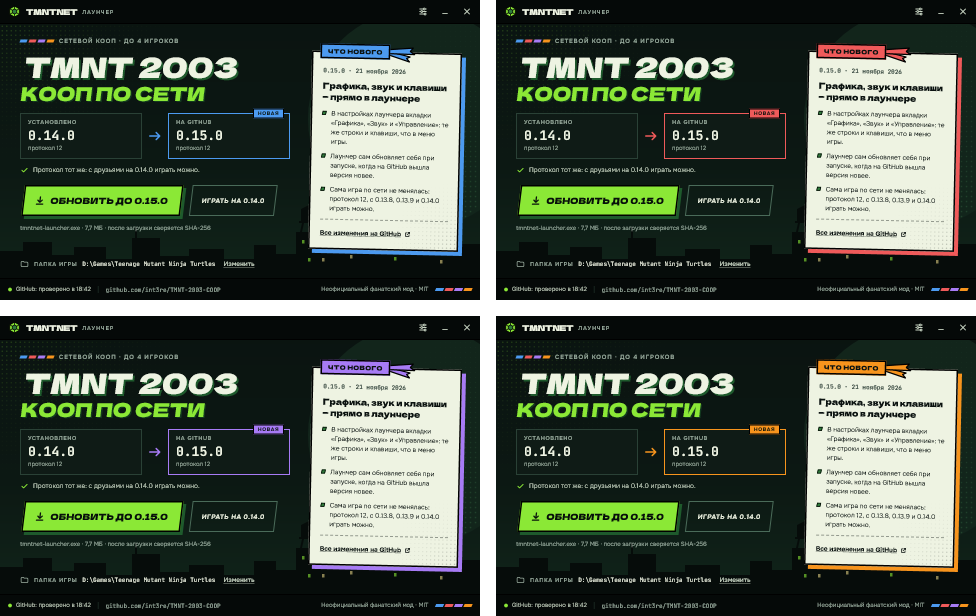
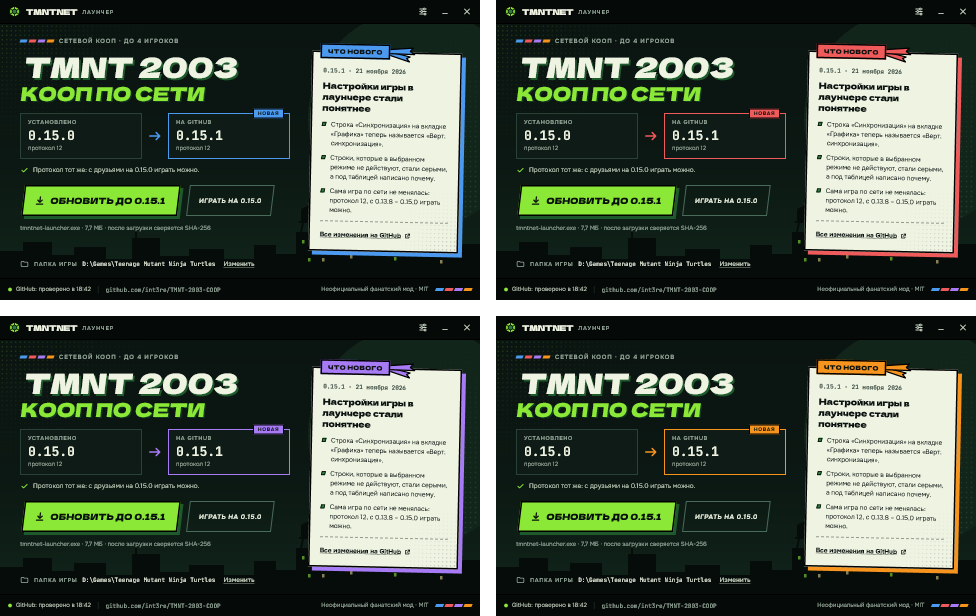
tmntnet 0.15.1: the launcher's pages of the game's settings, clearer and re-checked
- The vsync row of ГРАФИКА is named in full: «Верт. синхронизация».
- Rows that do nothing as the other rows are stand pale, with a line under
  the table saying why (gset::applies): without the wide screen the mod
  leaves the picture to the game (4:3, the resolution of the game's own
  menu), so [video] resolution and the side bars change nothing; in the
  exclusive full screen the game cannot go on in the background. Found by
  running the real game with the launcher's settings: 640x480 asked, an
  800x600 window with the wide screen off.
- /check "<game folder>" (lab): every value of every row is written and
  read back through the mod's own reader, every action of both players takes
  a key and gets its own back, a swap between the players, the layouts; the
  folder's files end as they began. Lab scenarios 24 (rows that do nothing)
  and 25 (the check): 25 scenarios, ALL OK.

No change to the mod itself: protocol 12, plays with 0.13.8 - 0.15.0.

diff --git a/src/launcher/launcher.cpp b/src/launcher/launcher.cpp
@@ -30,6 +30,8 @@
 //   /log <file>                 what happened, line by line
 //   /fonts                      the fonts found, into the log
 //   /feed <file> <tag>          reads a saved releases.atom, the release into the log
+//   /check <game folder>        every value of every row of the game's settings is written and read
+//                               back, every key is given and taken back; the result into the log
 #include <windows.h>
 
 #include <commctrl.h>
@@ -306,7 +308,7 @@ void fill_page(view::View& v, bool game) {
     view::Row row;
     row.number = r;
     row.label = gset::label(r);
-    row.usable = game && !m.game_busy && gset::usable(r);
+    row.usable = game && !m.game_busy && gset::usable(r) && gset::applies(r);
     const int now = gset::value(r);
     switch (gset::kind(r)) {
       case gset::Kind::Choice:
@@ -358,6 +360,12 @@ void fill_page(view::View& v, bool game) {
     v.page_note = sound ? L"Громкость — та же, что в игре: ПАРАМЕТРЫ → ОПЦИИ ЗВУКА. Действует со следующего запуска игры."
                         : L"Настройки мода из tmntnet.ini — те же строки, что в игре: ПАРАМЕТРЫ → ПАРАМЕТРЫ ГРАФИКИ. "
                           L"Действуют со следующего запуска игры.";
+    // Rows that do nothing with the other rows as they are: why they are pale.
+    if (!sound && !gset::applies(gset::kResolution))
+      v.page_note = L"Широкий формат выключен: картинка 4:3, как в оригинале. Разрешение тогда выбирается в меню игры, "
+                    L"а «По бокам от 4:3» не нужно.";
+    else if (!sound && !gset::applies(gset::kBackground))
+      v.page_note = L"В полном экране игра не может идти в фоне: эта строка действует в режимах «Без рамки» и «В окне».";
   }
 }
 
@@ -960,7 +968,7 @@ void open_tab(int tab) {
 void change_row(int number, int part) {
   if (number < 0 || number >= gset::kRows || !m.settings_open || (m.tab != 1 && m.tab != 2) || m.game_busy) return;
   const gset::Row r = (gset::Row)number;
-  if ((r >= gset::kFirstSound) != (m.tab == 2) || !gset::usable(r)) return;
+  if ((r >= gset::kFirstSound) != (m.tab == 2) || !gset::usable(r) || !gset::applies(r)) return;
   const int now = gset::value(r);
   int next = now;
   switch (gset::kind(r)) {
@@ -1685,6 +1693,82 @@ void CALLBACK lab_tick(HWND, UINT, UINT_PTR, DWORD) {
   }
 }
 
+// Lab: the pages of the game's settings against a game folder, with no window.
+// Every value of every row is written and read back (tmntnet.ini through the
+// mod's own reader), every action of both players takes a key and gets its own
+// back, two actions swap their keys, the ready layouts come and go. Each row
+// ends on the value it began with: the folder's files are left as they were.
+int check_settings(const std::wstring& dir) {
+  gset::load(dir);
+  int bad = 0, good = 0;
+  auto fail = [&](const std::wstring& what) {
+    ++bad;
+    lab(L"check: FAIL " + what);
+  };
+  for (int r = 0; r < gset::kRows; ++r) {
+    const gset::Row row = (gset::Row)r;
+    const std::wstring key = update::widen(gset::key(row));
+    if (!gset::usable(row)) {
+      fail(key + L": its file is not in the folder");
+      continue;
+    }
+    const int first = gset::value(row), n = gset::count(row);
+    std::wstring names;
+    for (int i = 1; i <= n; ++i) {  // every value, the first one last
+      const int v = (first + i) % n;
+      const std::wstring name = gset::name(row, v);
+      names += (names.empty() ? L"" : L", ") + name;
+      if (!gset::set(row, v)) {
+        fail(key + L" = " + name + L": " + gset::error());
+        continue;
+      }
+      gset::load(dir);
+      if (gset::value(row) != v) fail(key + L" = " + name + L" reads back as " + gset::name(row, gset::value(row)));
+      else ++good;
+    }
+    lab(L"check: " + key + L", " + std::to_wstring(n) + L" values: " + names);
+  }
+  if (!gset::has_keys()) {
+    fail(L"keys: savesetting.dat is not in the folder");
+  } else {
+    const int spare = 0x44;  // F10
+    for (int p = 0; p < 2; ++p)
+      for (int a = 0; a < gset::kKeyActions; ++a) {
+        const std::wstring who = L"player " + std::to_wstring(p + 1) + L" " + update::widen(gset::action_key(a));
+        const int own = gset::key_code(p, a);
+        if (!gset::set_key(p, a, spare)) fail(who + L" = F10: " + gset::error());
+        gset::load(dir);
+        if (gset::key_code(p, a) != spare) fail(who + L" = F10 reads back as " + gset::key_name(gset::key_code(p, a)));
+        if (!gset::set_key(p, a, own)) fail(who + L" back: " + gset::error());
+        gset::load(dir);
+        if (gset::key_code(p, a) != own) fail(who + L" does not get " + gset::key_name(own) + L" back");
+        else ++good;
+      }
+    // A key the other player has: the two actions change keys, and back.
+    const int mine = gset::key_code(0, 4), theirs = gset::key_code(1, 4);
+    gset::set_key(0, 4, theirs);
+    gset::load(dir);
+    if (gset::key_code(0, 4) != theirs || gset::key_code(1, 4) != mine) fail(L"the swap between the players");
+    gset::set_key(0, 4, mine);
+    gset::load(dir);
+    if (gset::key_code(0, 4) != mine || gset::key_code(1, 4) != theirs) fail(L"the swap back");
+    else ++good;
+    lab(L"check: keys, " + std::to_wstring(2 * gset::kKeyActions) + L" actions and a swap");
+    if (gset::layout() == 0) {  // (with keys of one's own the layouts would leave them in tmntnet.ini)
+      gset::set_layout(1);
+      gset::load(dir);
+      if (gset::layout() != 1) fail(L"the layout of two players");
+      gset::set_layout(0);
+      gset::load(dir);
+      if (gset::layout() != 0) fail(L"the game's own layout");
+      else ++good;
+      lab(L"check: layouts");
+    }
+  }
+  lab(L"check: done, " + std::to_wstring(good) + L" right, " + std::to_wstring(bad) + L" wrong");
+  return bad;
+}
+
 }  // namespace
 
 int WINAPI wWinMain(HINSTANCE, HINSTANCE, PWSTR, int) {
@@ -1693,7 +1777,7 @@ int WINAPI wWinMain(HINSTANCE, HINSTANCE, PWSTR, int) {
   SetErrorMode(SEM_FAILCRITICALERRORS | SEM_NOGPFAULTERRORBOX);
   int argc = 0;
   wchar_t** argv = CommandLineToArgvW(GetCommandLineW(), &argc);
-  std::wstring shot, state = L"update", was, feed, feed_tag;
+  std::wstring shot, state = L"update", was, feed, feed_tag, check_dir;
   float scale = 1.0f;
   int accent = -1;
   DWORD snap_after = 0;
@@ -1712,6 +1796,7 @@ int WINAPI wWinMain(HINSTANCE, HINSTANCE, PWSTR, int) {
     else if (a == L"/snap" && more) g_snap_file = argv[++i];
     else if (a == L"/after" && more) snap_after = (DWORD)_wtoi(argv[++i]);
     else if (a == L"/fonts") fonts = true;
+    else if (a == L"/check" && more) check_dir = argv[++i];
     else if (a == L"/apply") apply = true;
     else if (a == L"/updated") m.just_updated = m.self_tried = true;  // (and no second update in a row)
     else if (a == L"/at" && more) {
@@ -1741,6 +1826,11 @@ int WINAPI wWinMain(HINSTANCE, HINSTANCE, PWSTR, int) {
     lab(gfx::fonts_report());
     gfx::shutdown();
     return 0;
+  }
+  if (!check_dir.empty()) {
+    const int bad = check_settings(check_dir);
+    gfx::shutdown();
+    return bad ? 1 : 0;
   }
   if (!feed.empty()) {
     FILE* f = _wfopen(feed.c_str(), L"rb");

diff --git a/src/launcher/game_settings.cpp b/src/launcher/game_settings.cpp
@@ -74,7 +74,7 @@ const Info kInfo[kRows] = {
     {L"Панели игроков", "hud", Kind::Choice, true},
     {L"Качество", "quality", Kind::Choice, true},
     {L"Лимит кадров", "fps", Kind::Choice, true},
-    {L"Синхронизация", "vsync", Kind::Choice, true},
+    {L"Верт. синхронизация", "vsync", Kind::Choice, true},
     {L"Музыка", "music", Kind::Level, false},
     {L"Звуки", "effects", Kind::Level, false},
     {L"Голоса", "voices", Kind::Level, false},
@@ -376,6 +376,12 @@ Kind kind(Row r) { return kInfo[r].kind; }
 const wchar_t* label(Row r) { return kInfo[r].label; }
 const char* key(Row r) { return kInfo[r].key; }
 bool usable(Row r) { return kInfo[r].in_ini ? g.mod : g.levels; }
+
+bool applies(Row r) {
+  if (r == kResolution || r == kSides) return g.cfg.widescreen;  // (src/mod/widescreen.cpp, install)
+  if (r == kBackground) return g.cfg.display != "fullscreen";    // (src/mod/display.cpp, install)
+  return true;
+}
 
 int count(Row r) {
   switch (r) {

diff --git a/src/launcher/game_settings.h b/src/launcher/game_settings.h
@@ -32,6 +32,11 @@ Kind kind(Row r);
 const wchar_t* label(Row r);
 const char* key(Row r);            // its name for the lab: display, music, ...
 bool usable(Row r);                // its file is there
+// The row does something with the other rows as they are. Without the wide
+// screen the mod leaves the picture to the game (4:3, the resolution of the
+// game's own menu): РАЗРЕШЕНИЕ and ПО БОКАМ do nothing; in the exclusive full
+// screen the game cannot go on in the background.
+bool applies(Row r);
 int count(Row r);                  // how many values it has now
 int value(Row r);                  // the one set
 std::wstring name(Row r, int v);   // a value's words

diff --git a/src/common/version.h b/src/common/version.h
@@ -1,2 +1,2 @@
 #pragma once
-#define TMNTNET_VERSION "0.15.0"
+#define TMNTNET_VERSION "0.15.1"

diff --git a/docs/LAUNCHER.md b/docs/LAUNCHER.md
@@ -122,7 +122,7 @@ Turtles (2003).
 | **Панели игроков** | как в игре, 90 … 50 % | `[video] hud_size` |
 | **Качество** | как в игре, высокое (сглаживание 4x, текстуры 16x), максимум (8x) | `[video] antialiasing`, `anisotropy` |
 | **Лимит кадров** | нет, 30, 60, 120, 144 | `[video] fps_limit` |
-| **Синхронизация** | вертикальная синхронизация: как в игре, включена, выключена | `[video] vsync` |
+| **Верт. синхронизация** | вертикальная синхронизация (кадр показывается в такт обновлению монитора: без «разрывов» картинки): как в игре, включена, выключена | `[video] vsync` |
 | **Музыка, Звуки, Голоса** | пять ступеней, как ползунки игры | `savesetting.dat` игры |
 | **Ролики** | как музыка или своя громкость, 1 … 5 | `tmntnet.ini`, `[audio] movie_level` |
 | **Режим аудио** | стерео / моно | `savesetting.dat` игры |
@@ -131,7 +131,16 @@ Turtles (2003).
 Кнопка **По умолчанию** возвращает строки открытой вкладки к настройкам мода и игры «из
 коробки»; вторую вкладку она не трогает.
 
-Когда строки серые и не нажимаются, под ними написано почему:
+Некоторые строки действуют не всегда — так устроен мод, и в меню игры так же. Лаунчер делает
+такую строку серой и пишет под таблицей почему:
+
+- **Широкий формат выключен** — картинка остаётся 4:3, как в оригинале: разрешение тогда
+  выбирается в меню самой игры (**ПАРАМЕТРЫ ГРАФИКИ → РАЗРЕШЕНИЕ**), а «По бокам от 4:3»
+  не нужно.
+- **Окно игры — полный экран** — игра не может идти в фоне: «Игра идёт в фоне» действует в
+  режимах «Без рамки» и «В окне».
+
+Когда серые все строки вкладки, под ними тоже написано почему:
 
 - **Игра запущена.** Игра читает настройки при запуске и записывает свои при выходе, поэтому
   менять их под ней бессмысленно. Закройте игру — вкладка оживёт сама.
@@ -238,7 +247,7 @@ Turtles (2003).
 
 Программный интерфейс GitHub (`api.github.com`) не используется: в некоторых сетях он закрыт,
 хотя сам сайт открывается. О себе лаунчер сообщает серверу только название и версию
-(`tmntnet-launcher/0.15.0`); ничего о компьютере, игроке или папках он не отправляет.
+(`tmntnet-launcher/0.15.1`); ничего о компьютере, игроке или папках он не отправляет.
 
 Описание релиза, сделанного вместе с лаунчером, заканчивается блоком «Данные для лаунчера» —
 строки `ключ=значение`. Релизы до 0.14.0 такого блока не имеют: для них лаунчер берёт
@@ -292,7 +301,7 @@ tmntnet-launcher.exe … /do tab_controls@1800 /do key.jump@2100 /do press.1E@24
                                                      layout.prev / layout.next
 ```
 
-`tests/run_launcher_lab.ps1` прогоняет так двадцать три сценария против подставного GitHub
+`tests/run_launcher_lab.ps1` прогоняет так двадцать пять сценариев против подставного GitHub
 (`tests/launcher_lab_server.py`) и подставной папки игры: установка из встроенного
 установщика, «ничего нового», релиз без блока, неверная контрольная сумма, обновление через
 новый лаунчер, лаунчер без права заменить себя, ожидание закрытия игры, отмена загрузки,
@@ -304,7 +313,10 @@ tmntnet-launcher.exe … /do tab_controls@1800 /do key.jump@2100 /do press.1E@24
 копия в VirtualStore, закрытая для записи папка (обычная игра и игра от администратора);
 вкладка «Управление»: клавиша для действия, обмен с действием, у которого она была (своим и
 другого игрока), кнопка мыши, клавиша, которую игра не берёт, готовые раскладки и возврат
-своей. Игра при этом не запускается, настройки и кэш настоящего лаунчера не трогаются.
+своей; и сплошная проверка `tmntnet-launcher.exe /check "<папка игры>"`: каждое значение
+каждой строки записывается и читается обратно (`tmntnet.ini` — тем же кодом, каким его читает
+мод), каждое действие обоих игроков получает клавишу и свою назад, файлы остаются байт в
+байт. Игра при этом не запускается, настройки и кэш настоящего лаунчера не трогаются.
 
 **Релиз.** Напишите строки для листа «Что нового» в `dist/release.txt`, соберите проект и
 сделайте описание релиза:

diff --git a/docs/CHANGELOG.md b/docs/CHANGELOG.md
@@ -6,8 +6,35 @@
 
 > **Совместимость по сети.** У всех игроков должна быть версия с одним номером протокола
 > (мод сам откажет с понятным сообщением, если протоколы разные). Сейчас это протокол 12:
-> версии 0.13.8, 0.13.9, 0.14.0 и 0.15.0. (Протокол 11: версии 0.13.6 и 0.13.7.)
+> версии 0.13.8, 0.13.9, 0.14.0, 0.15.0 и 0.15.1. (Протокол 11: версии 0.13.6 и 0.13.7.)
 
+- **0.15.1:** настройки игры в лаунчере перепроверены (игрок: «что означает синхронизация?», затем
+  «да, переименуй в „Верт. синхронизация“» и «также перепроверь, все ли настройки правильно
+  работают»). Сам мод не менялся: протокол 12.
+  - **«Верт. синхронизация»** вместо «Синхронизации» на вкладке «Графика»: короткое название было
+    непонятным.
+  - **Перепроверка в настоящей игре** (тестовая копия, два запуска по 22 секунды в окне): лаунчер
+    без окна выставил значение в каждой строке трёх вкладок и две клавиши, затем игра была
+    запущена и закрыта обычным образом. Журнал мода подтвердил то, что он взял из `tmntnet.ini`:
+    «display: windowed, vsync on, fps limit 60, keeps running in the background», «view: 120% of
+    the game's», «video mode: game asked 800x600x32, using 640x480x32», «picture quality:
+    anti-aliasing 8x, anisotropic filtering 16x», «intro skipped», «widescreen disabled». Игра при
+    выходе заново пишет `savesetting.dat` из того, что держит в памяти: громкость 1 2 3 и моно,
+    клавиша J на слабой атаке и правая кнопка мыши на особой остались — значит, файл, записанный
+    лаунчером, она приняла целиком. Размер панелей, «По бокам» и громкость роликов в журнале
+    строк не имеют: они проверены только чтением файла тем же кодом, что у мода.
+  - **Найдено: строки, которые не действуют.** С разрешением 640x480 и выключенным широким
+    форматом окно игры вышло 800x600. Это правило самого мода: без широкого формата он оставляет
+    картинку игре (4:3, разрешение из её меню), и `[video] resolution` и «По бокам» тогда ни на
+    что не влияют; так же «Игра идёт в фоне» ничего не делает в полном экране. В меню игры эти
+    строки так и стоят рядом. Лаунчер теперь делает такую строку серой и пишет под таблицей
+    почему.
+  - **Сплошная проверка** `tmntnet-launcher.exe /check "<папка игры>"` (лаборатория, сценарий 25):
+    каждое значение каждой из шестнадцати строк записывается и читается обратно — `tmntnet.ini`
+    тем же кодом, каким его читает мод; каждое из двадцати четырёх действий обоих игроков
+    получает клавишу и свою назад; обмен клавишами между игроками; раскладки. На этом ПК это 103
+    проверки (разрешений у монитора восемнадцать), все сошлись, оба файла остались байт в байт.
+    Лаборатория: 25 сценариев, `ALL OK`.
 - **0.15.0:** графика, звук и управление в лаунчере, лаунчер обновляет себя сам (игрок: «добавить
   настройку графики и звука прямо из меню лаунчера, добавь эти страницы в артефакт, и
   автообновление лаунчера нужно при его запуске, если на то нужно будет для обновления версии с

diff --git a/docs/BUILDING.md b/docs/BUILDING.md
@@ -73,7 +73,7 @@ SDK скачивается с [partner.steamgames.com](https://partner.steamgame
 | Скрипт | Что проверяет |
 |---|---|
 | `tests/run_integration.ps1` | клиент → ENet → перехват → клавиши игрока 2 (`PASS`) |
-| `tests/run_launcher_lab.ps1` | лаунчер против подставного GitHub и подставной папки игры, без окна: установка, обновление, неверная контрольная сумма, отмена, удаление, самообновление при запуске, вкладки «Графика», «Звук» и «Управление» — всего 23 сценария (`ALL OK`). Нужен Python |
+| `tests/run_launcher_lab.ps1` | лаунчер против подставного GitHub и подставной папки игры, без окна: установка, обновление, неверная контрольная сумма, отмена, удаление, самообновление при запуске, вкладки «Графика», «Звук» и «Управление», сплошная проверка всех значений — всего 25 сценариев (`ALL OK`). Нужен Python |
 | `tests/run_steam_mock.ps1` | логику Steam на моке, без Steam и аккаунтов: вход в лобби по SteamID хоста, отказ чужаку, жёсткое завершение клиента и перезапуск, выход с прощанием, Hello раньше членства в лобби, 10 % потерь и 40 мс задержки, молчаливая смерть клиента (`ALL OK`, 13 проверок) |
 | `tests/run_chaos.ps1 -ChaosDir <папка>` | путь LAN/IP через «плохую сеть» из [coop-anything](https://github.com/cranebeaker/coop-anything/tree/main/tools/chaos) и обрыв на 2,5 с посередине |
 

diff --git a/docs/TROUBLESHOOTING.md b/docs/TROUBLESHOOTING.md
@@ -134,7 +134,7 @@ lockstep: DESYNC at frame 12420 (here FCD6847E, there AE20CEC5): the games are n
 
 | Строка | Что значит |
 |---|---|
-| `tmntnet 0.15.0 (protocol v12)` | версия мода и протокола |
+| `tmntnet 0.15.1 (protocol v12)` | версия мода и протокола |
 | `lockstep: frame …, waited … ; 598 frames in 10000 ms; for player 2 … ms` | раз в 10 секунд: сколько кадров сыграно (600 — полная скорость) и сколько времени ждали кнопок каждого игрока. Кого ждали дольше — тот ПК или связь с ним и тормозит |
 | `signature … : 0 matches` | мод не нашёл место в коде игры (другой `TMNT.EXE`) |
 | `Steam ready`, `Steam lobby … created` | Steam подключён, лобби создано |

diff --git a/README.md b/README.md
@@ -242,7 +242,7 @@ flowchart LR
 
 ## Состояние проекта
 
-Мод в активной разработке, версия **0.15.0**. Сюжет вдвоём, втроём и вчетвером через Steam
+Мод в активной разработке, версия **0.15.1**. Сюжет вдвоём, втроём и вчетвером через Steam
 проходился в настоящих играх с друзьями; после каждой такой игры найденные проблемы
 исправлялись (см. [историю версий](docs/CHANGELOG.md)).
 

diff --git a/README.en.md b/README.en.md
@@ -239,7 +239,7 @@ is in [docs/ARCHITECTURE.md](docs/ARCHITECTURE.md) and [re/notes.md](re/notes.md
 
 ## Status
 
-Under active development, version **0.15.0**. The story has been played by two, three and four
+Under active development, version **0.15.1**. The story has been played by two, three and four
 players over Steam in real sessions; what broke in each was fixed afterwards (see the changelog).
 
 Known limits:
